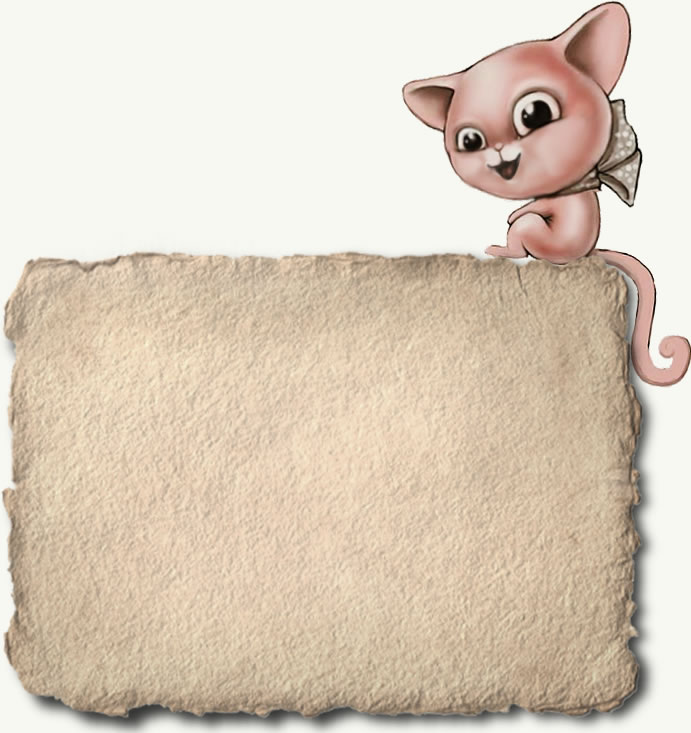
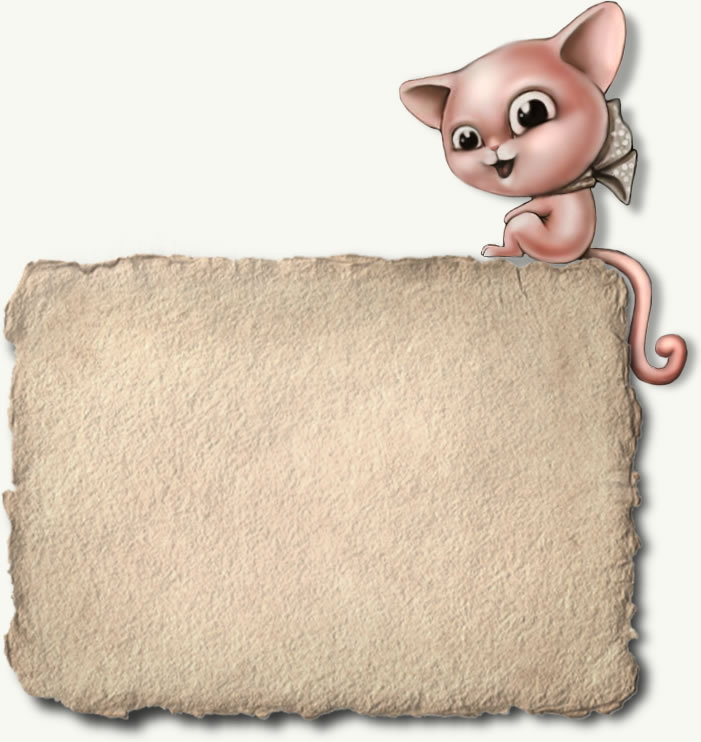
fix contactus img

diff --git a/public/stylesheets/style.css b/public/stylesheets/style.css
@@ -1012,9 +1012,10 @@ post_body .r728x90 {
     width: 600px;
 }
 .contactus_bg {
-    background: url("../images/contactus_bg.jpg") no-repeat scroll -3px bottom transparent;
-    height: 422px;
-    padding: 310px 90px 0 55px;
+    background: url("../images/contactus_bg.jpg") no-repeat scroll -2px bottom transparent;
+    height: 435px;
+    padding: 306px 90px 0 55px;
+    width: 555px;
 }
 
 .contactus_bg p {
